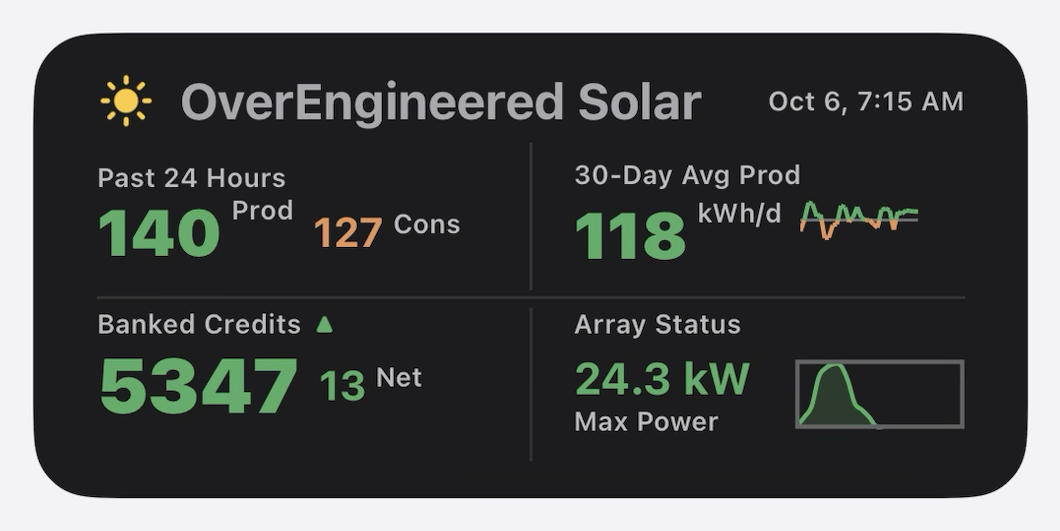
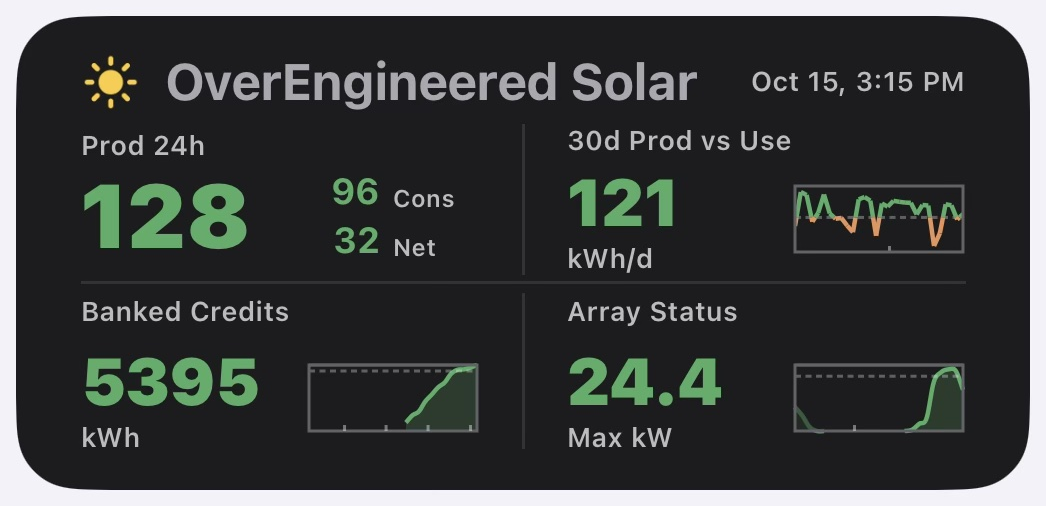
Solar page: new side-by-side picture and wording for the current widget
solar.html: new top picture (medium and small widgets side by side), the "What it
shows" bullets renamed to match the widget (Prod 24h, 30d Prod vs Use, 12-month
bank chart, faded yesterday curve), and one line on the sizes and the Today view.
images: new solar-widgets.png; solar-widget.png (used by the Solar tile) replaced
with the current medium widget.

Claude-Session: https://claude.ai/code/session_01UP7yCfTexMKDzB83KYFVrY

diff --git a/solar.html b/solar.html
@@ -57,16 +57,17 @@
     <h1>iPhone Solar Widget for Enphase</h1>
     <p class="lead prose">iPhone Home Screen and Lock Screen widgets for Enphase solar systems: today's production, a banked-credit estimate, and fault and dirty-panel warnings. Free for personal use.</p>
 
-    <img class="photo contain widget" src="images/solar-widget.png" width="1060" height="531" alt="The OverEngineered Solar widget showing 24-hour production and consumption, 30-day average, banked credits and array status">
+    <img class="photo contain widget" src="images/solar-widgets.png" width="1592" height="506" alt="The OverEngineered Solar widget: the medium size on the left and the small size on the right, showing 24-hour production, consumption and net, 30-day production against use, banked credits and array status">
 
     <div class="prose">
     <h2>What it shows</h2>
     <ul>
-      <li><strong>Past 24 hours:</strong> production and consumption in kWh, green or orange against your 30-day average.</li>
-      <li><strong>Past 30 days:</strong> your average daily production, with a trend line.</li>
-      <li><strong>Banked credits:</strong> an estimate of your net-metering balance, starting from the figure on your last bill.</li>
-      <li><strong>Array status:</strong> a chart of the last 24 hours, your recent peak power, and a verdict: normal, dirty panels, low winter sun, or a service fault reported by Enphase.</li>
+      <li><strong>Prod 24h:</strong> production over the past 24 hours as the big number, with consumption and net beside it, in kWh. Green or orange against your 30-day average.</li>
+      <li><strong>30d Prod vs Use:</strong> your average daily production over the past 30 days, with each day in a small chart against your average use.</li>
+      <li><strong>Banked credits:</strong> an estimate of your net-metering balance, starting from the figure on your last bill, with a small chart of the last 12 months.</li>
+      <li><strong>Array status:</strong> a chart of the last 24 hours, with yesterday&rsquo;s part faded, your recent peak power, and a verdict: normal, dirty panels, low winter sun, or a service fault reported by Enphase.</li>
     </ul>
+    <p>It comes in a medium and a small Home Screen size, plus a Lock Screen widget. An optional Today view counts from midnight instead of the past 24 hours.</p>
     <p class="note">It is not live: it updates about once an hour while the sun is up, because Enphase's free plan limits how often it can ask. It reads your data from Enphase's cloud service, and it does not show battery status.</p>
 
     <h2>What you need</h2>
